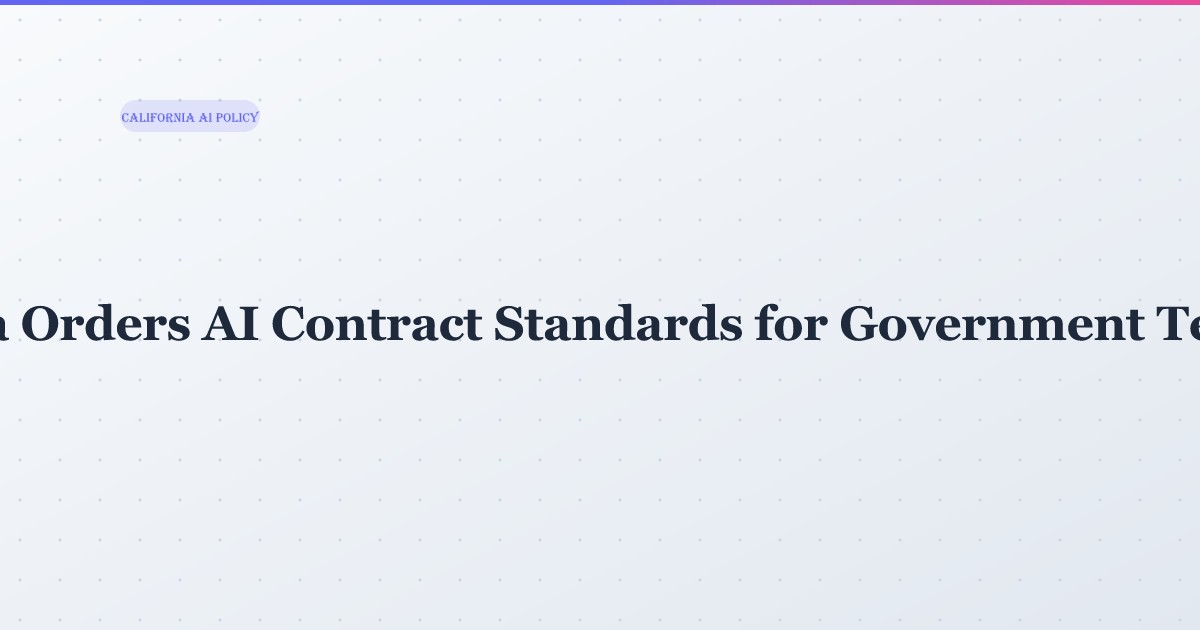
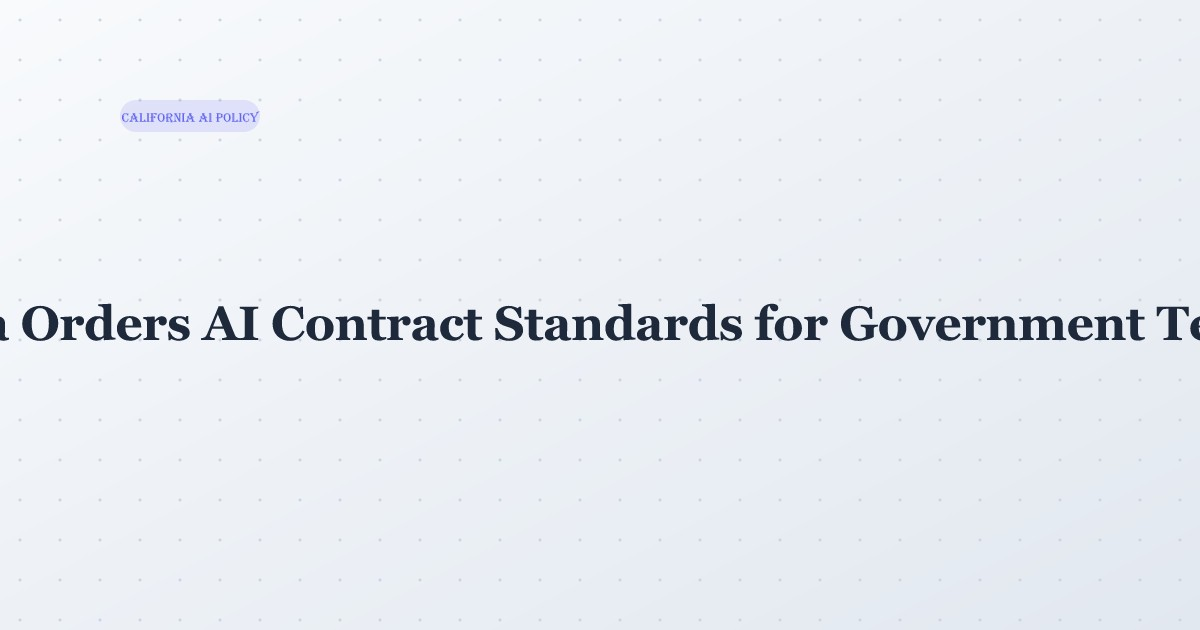
remove gradient bar from cover images

Changed region(s): [[0.0, 0.0, 1.0, 0.0302]]

diff --git a/scripts/generate-covers.js b/scripts/generate-covers.js
@@ -137,7 +137,6 @@ function buildCoverSVG(imageBuffer, isSvg) {
     <filter id="blur"><feGaussianBlur stdDeviation="100"/></filter>
   </defs>
   <rect width="${W}" height="${H}" fill="#ffffff"/>
-  <rect width="${W}" height="5" fill="url(#bar)"/>
   <!-- Background: blurred and scaled up -->
   <image href="${dataUri}" x="-800" y="-1400" width="2800" height="2800"
          opacity="0.2" filter="url(#blur)" preserveAspectRatio="xMidYMid meet"/>
@@ -162,7 +161,6 @@ function buildCustomCoverSVG(imageBuffer) {
     <filter id="blur"><feGaussianBlur stdDeviation="100"/></filter>
   </defs>
   <rect width="${W}" height="${H}" fill="#ffffff"/>
-  <rect width="${W}" height="5" fill="url(#bar)"/>
   <image href="${dataUri}" x="-200" y="-300" width="1600" height="1230"
          opacity="0.15" filter="url(#blur)" preserveAspectRatio="xMidYMid slice"/>
 </svg>`;
@@ -196,7 +194,6 @@ function buildTextCoverSVG(title, tags) {
   </defs>
   <rect width="${W}" height="${H}" fill="url(#bg)"/>
   <rect width="${W}" height="${H}" fill="url(#dots)"/>
-  <rect width="${W}" height="5" fill="url(#bar)"/>
   <rect x="120" y="100" width="140" height="32" rx="16" fill="${tagColor}" opacity="0.15"/>
   <text x="190" y="122" font-family="sans-serif" font-size="13" font-weight="700" fill="${tagColor}" text-anchor="middle">${escXml(tag)}</text>
   <text x="600" y="340" font-family="Georgia, serif" font-size="48" font-weight="900" fill="#1e293b" text-anchor="middle" letter-spacing="-0.5">${escXml(display)}</text>
